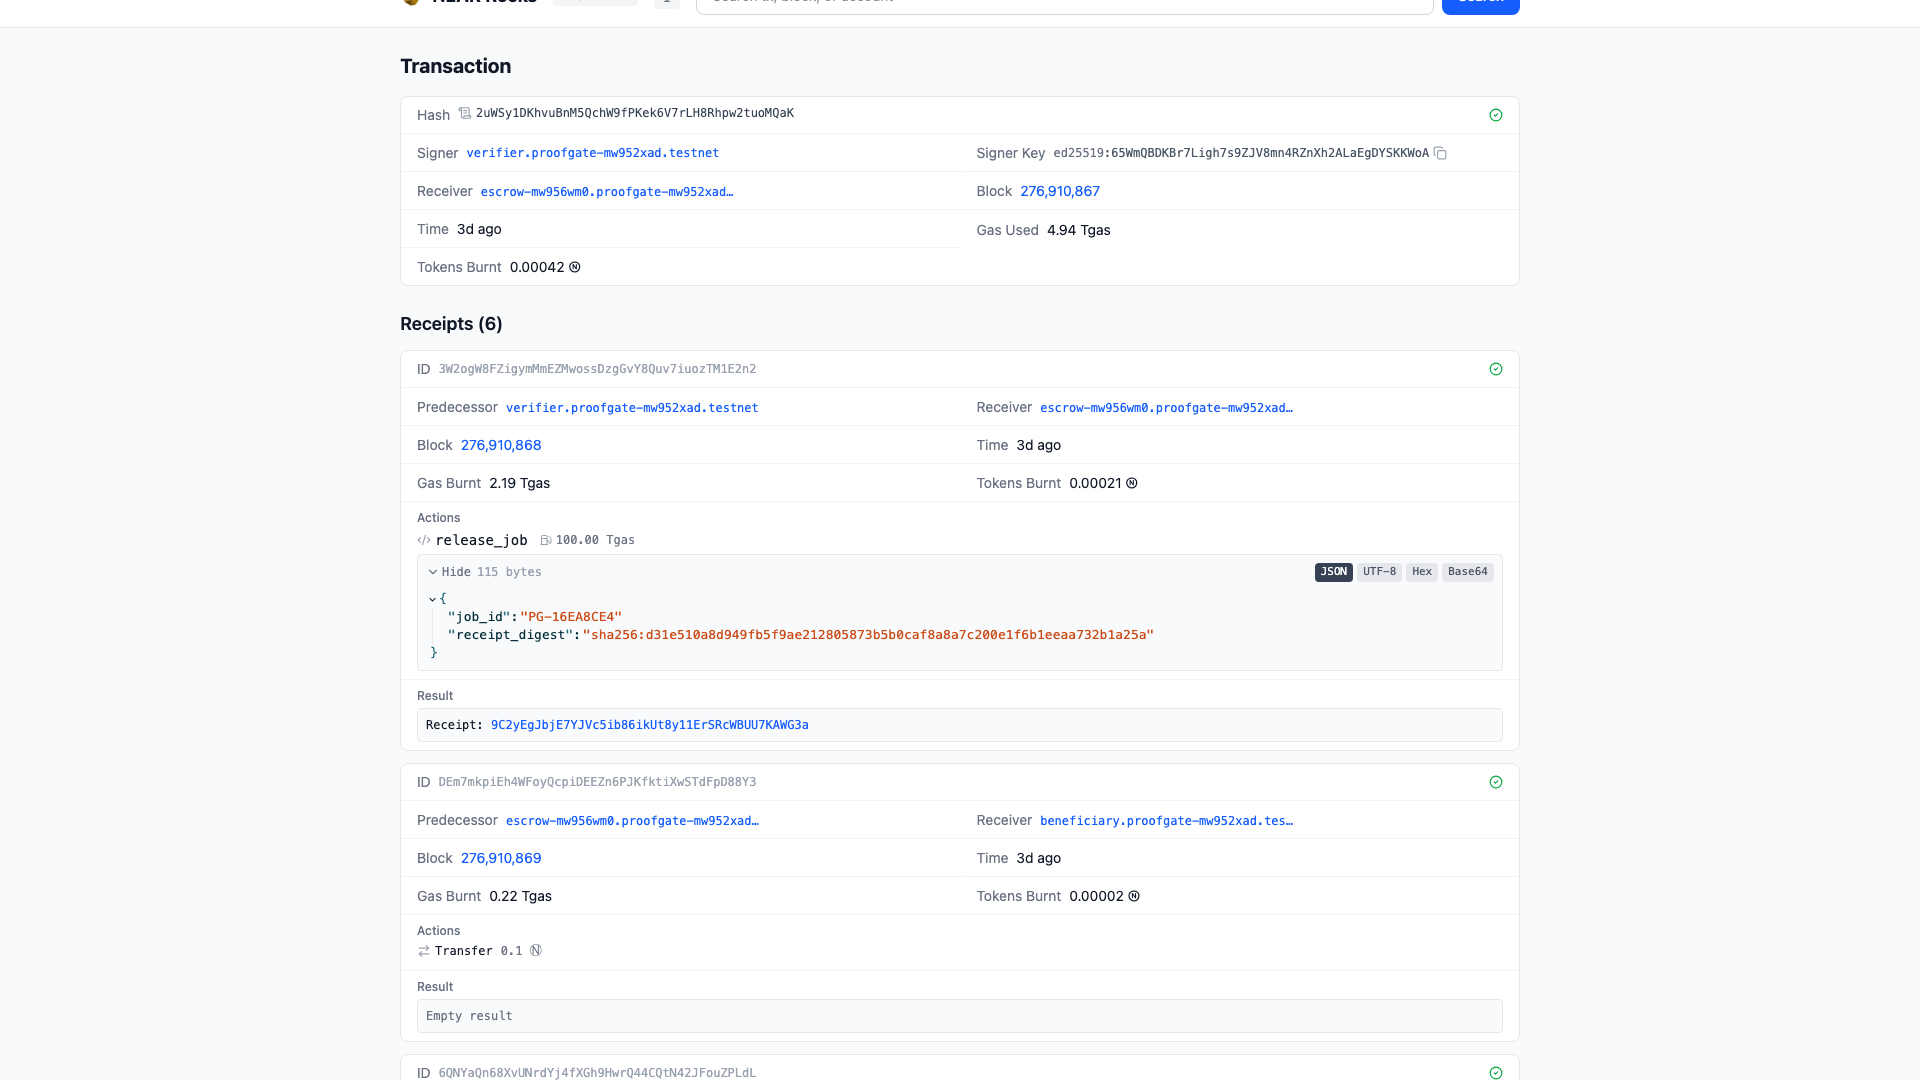
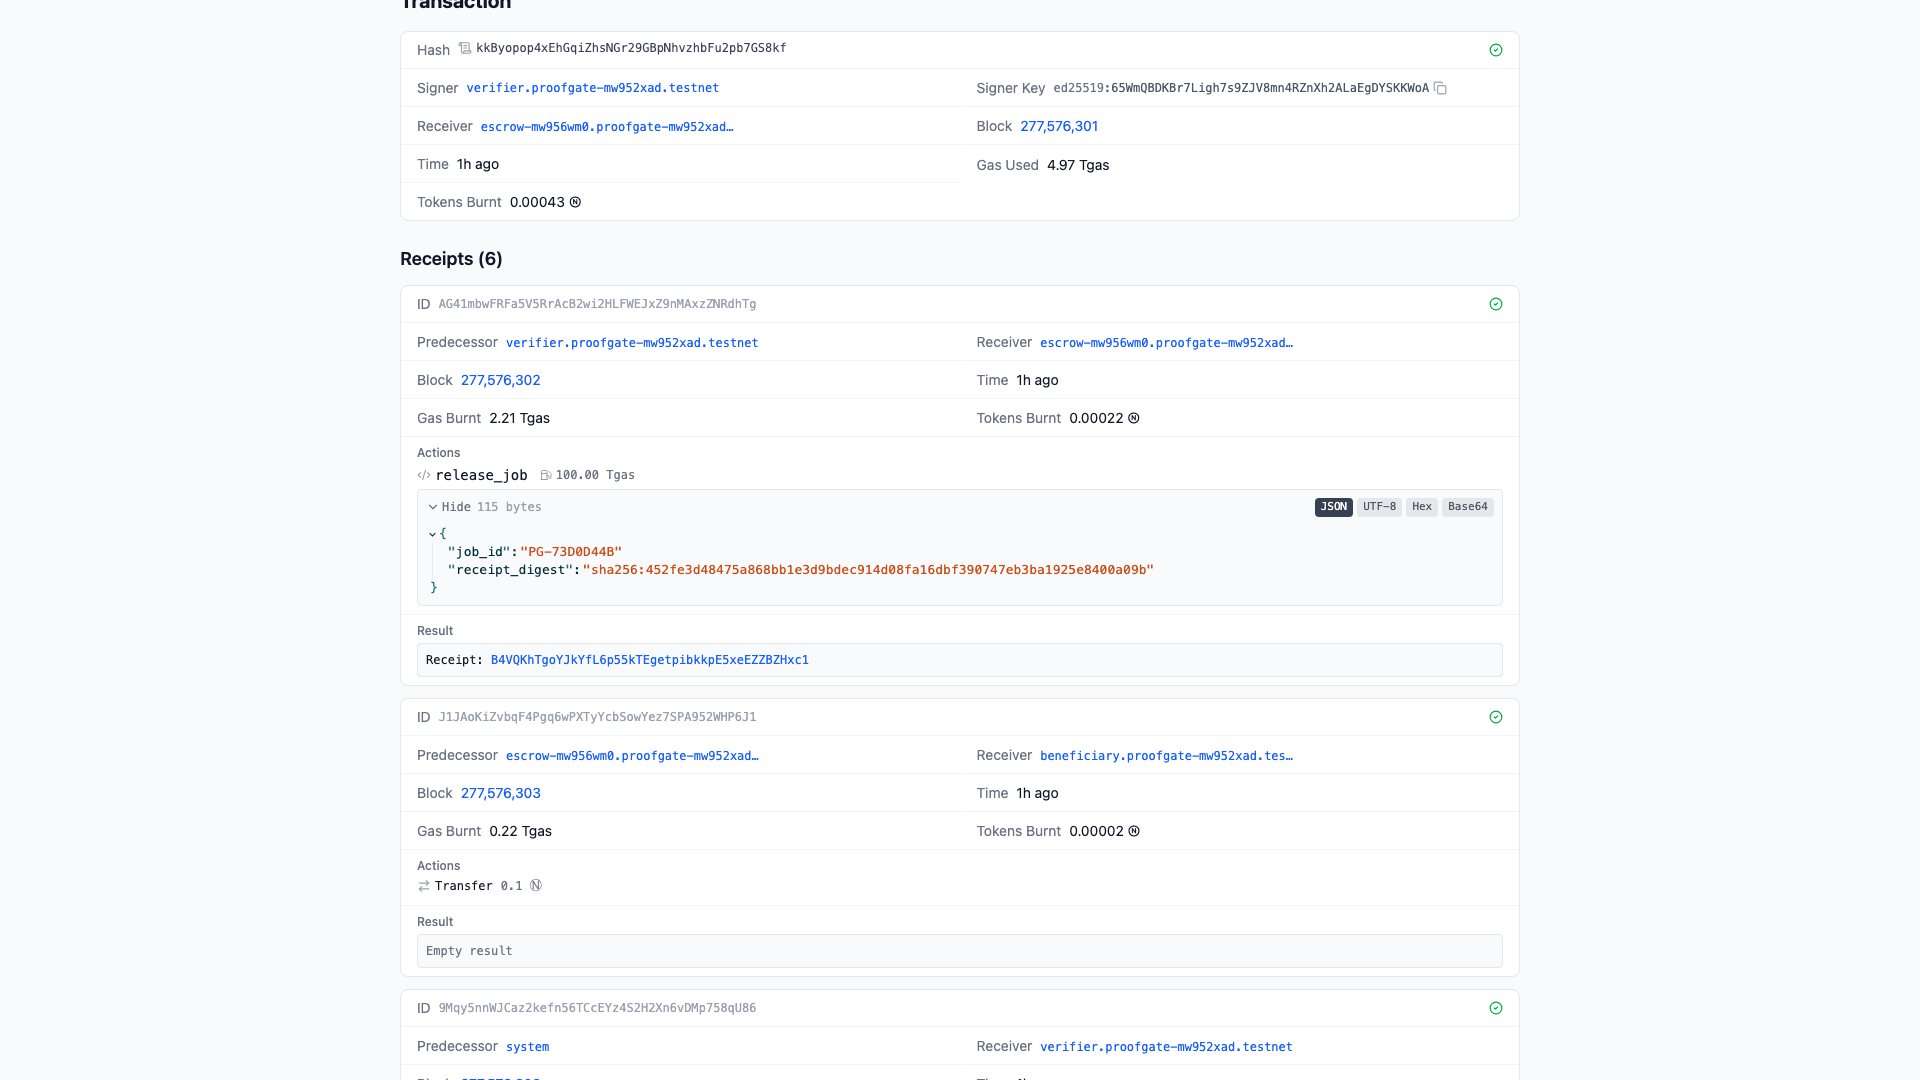
docs: refresh evidence to live run PG-73D0D44B
- Recapture all five README screenshots from the current UI against the
  live API (settled job PG-73D0D44B, blocked probe PG-8EDDD025)
- Replace the explorer screenshot with the release_job transaction for
  PG-73D0D44B (receipt digest 452fe3d4, Transfer 0.1 to beneficiary)
- Update the on-chain evidence table to create/release/refund of the
  2026-11-13 live loop; note attacker and double-release rejections
- Correct the tamper-demo instructions: tamper a value (wordCount),
  not whitespace, since the verifier hashes canonical JSON
- Sync CHALLENGE_STRATEGY integration state (live Cell/API preview)

diff --git a/README.md b/README.md
@@ -79,10 +79,13 @@ settlement is **no payout**.
 
 ### 2 · The verified job settles on NEAR Testnet
 
-Job `PG-16EA8CE4` ran the reviewed Rust guest through Cell, passed every
-verification check, and settled **0.10 Testnet NEAR** to
-`beneficiary.proofgate-mw952xad.testnet`. `Verified` and `Settled` remain
-distinct states in the product: verification alone never moves funds.
+Job `PG-73D0D44B` (2026-11-13) ran the reviewed Rust guest through Cell, passed
+every verification check, and settled **0.10 Testnet NEAR** to
+`beneficiary.proofgate-mw952xad.testnet`. The same live run also proved the
+negatives: a release from the attacker account was rejected and the job stayed
+`Open`, and a second release attempt was rejected while the job stayed `Paid`.
+`Verified` and `Settled` remain distinct states in the product: verification
+alone never moves funds.
 
 ![Verified receipt and settlement panel — 0.10 NEAR, Testnet, confirmed](docs/assets/verified-receipt.png)
 
@@ -96,11 +99,9 @@ Explorer evidence (Testnet only, throwaway accounts, faucet funds):
 
 | Action | Transaction |
 |---|---|
-| Full contract run — create | [`9wwVd1Bh…6bTv`](https://explorer.testnet.near.org/transactions/9wwVd1BhnvJx9BgLBaBARwWGVwzU79cGQkN2CH9w6bTv) |
-| Full contract run — release | [`9ZXyGg3F…wxGP`](https://explorer.testnet.near.org/transactions/9ZXyGg3FeXpLcHcq16ijvGuQu6MrAzRYhU4cF56ZwxGP) |
-| Full contract run — refund | [`2ugVw8PF…1Ua6`](https://explorer.testnet.near.org/transactions/2ugVw8PFo2t9gr3rvwz1UThbJcVpjHsEKKASSA3w1Ua6) |
-| Job PG-16EA8CE4 — create | [`9CKcAHi2…sa5T`](https://explorer.testnet.near.org/transactions/9CKcAHi2jVLwrV8ABiR36PcXcz9YLRg3A2nsNXc9sa5T) |
-| Job PG-16EA8CE4 — release (0.10 NEAR) | [`2uWSy1DK…mQaK`](https://explorer.testnet.near.org/transactions/2uWSy1DKhvuBnM5QchW9fPKek6V7rLH8Rhpw2tuoMQaK) |
+| Job PG-73D0D44B — create | [`4dT5X1qm…mwHD`](https://explorer.testnet.near.org/transactions/4dT5X1qmaVeBmYpLiQEnF9MWGDdRteJREvGDFuc9mwHD) |
+| Job PG-73D0D44B — release (0.10 NEAR) | [`kkByopop…8kf`](https://explorer.testnet.near.org/transactions/kkByopop4xEhGqiZhsNGr29GBpNhvzhbFu2pb7GS8kf) |
+| Escrow refund path — refund on expiry | [`GTi73Y5Z…gek4`](https://explorer.testnet.near.org/transactions/GTi73Y5Zt6WccKki2C2FJKoGHctLD9E7H5nm8zVygek4) |
 
 ## Trust boundary: three authorities, kept apart
 
@@ -142,9 +143,11 @@ python3 apps/api/verify_bundle.py \
 ```
 
 Expected: `"verified": true`, every check `pass`, **17 checks passed · exit
-0**. Now change one byte — append a single space to
-`apps/api/tests/fixtures/output.json` and re-run: the `outputDigest` check
-fails and the verifier exits 1. One tampered byte, and the proof collapses.
+0**. Now tamper with the result — change one value, for example `"wordCount":4`
+to `"wordCount":5` in `apps/api/tests/fixtures/output.json`, and re-run: the
+`outputDigest` check fails and the verifier exits 1 with `"verified": false`.
+One changed value, and the proof collapses. (The verifier hashes the canonical
+JSON, so whitespace-only edits are not tampering — the value itself must change.)
 
 ## Run the escrow contract
 

diff --git a/docs/CHALLENGE_STRATEGY.md b/docs/CHALLENGE_STRATEGY.md
@@ -86,11 +86,12 @@ accepts a confirmed sandbox settlement only from a bridge token holder after
 validating the receipt digest, amount, and beneficiary. The Testnet contract
 is deployed at `escrow-mw956wm0.proofgate-mw952xad.testnet`; documented create,
 release, and refund transactions are in the README. The ProofGate-linked job
-`PG-16EA8CE4` has a final 0.10 Testnet NEAR release recorded in local ignored
-state. Its exact explorer transaction exists, but the real Cell/receipt bundle
+`PG-73D0D44B` ran through the live API with the real Cell binary and has a
+final 0.10 Testnet NEAR release recorded in local ignored state. Its exact
+explorer transaction exists, but the real Cell/receipt bundle
 and settlement record are not part of a clean public checkout. Testnet
 accounts are throwaway; no Mainnet key or real funds are used. The local web
-preview is currently disconnected from Cell/API. Read-only
+preview runs against the local API and the real Cell route. Read-only
 `/api/near/status` is implemented; the recorded reachability check is past
 operational evidence, not a live check now.
 
